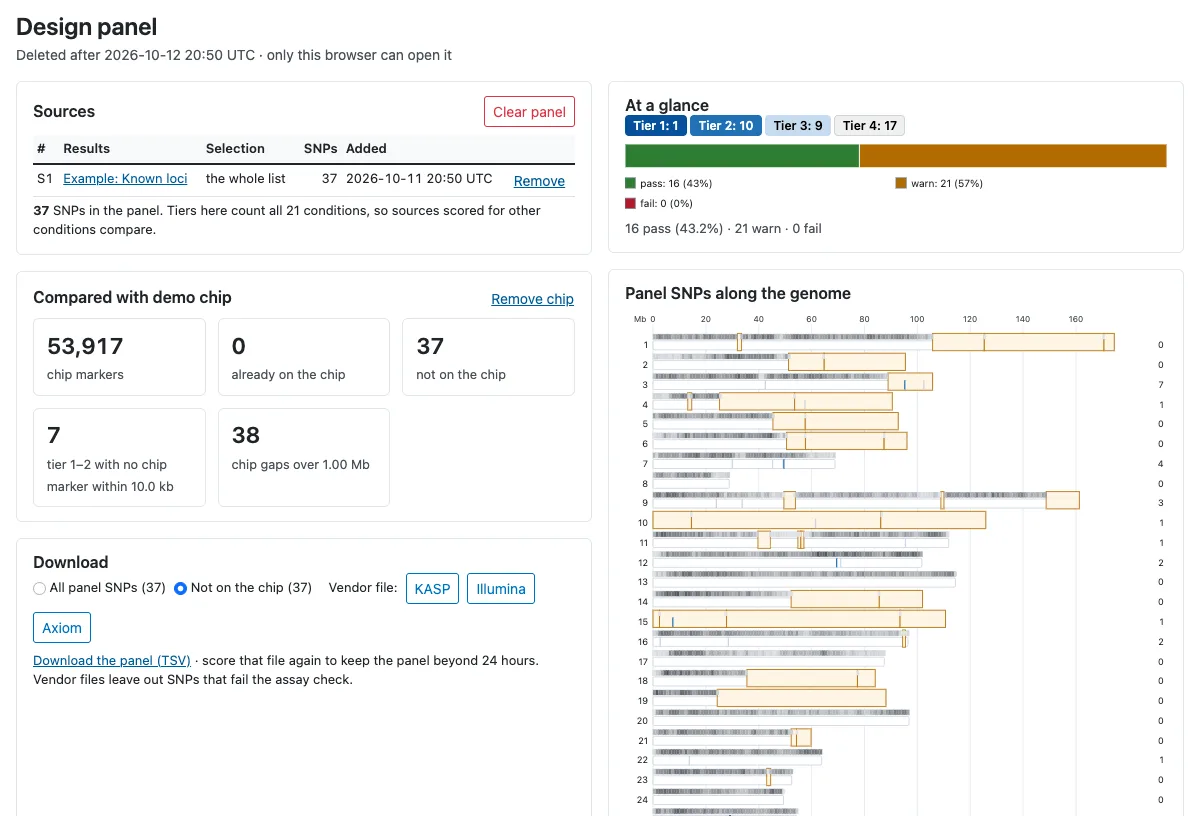
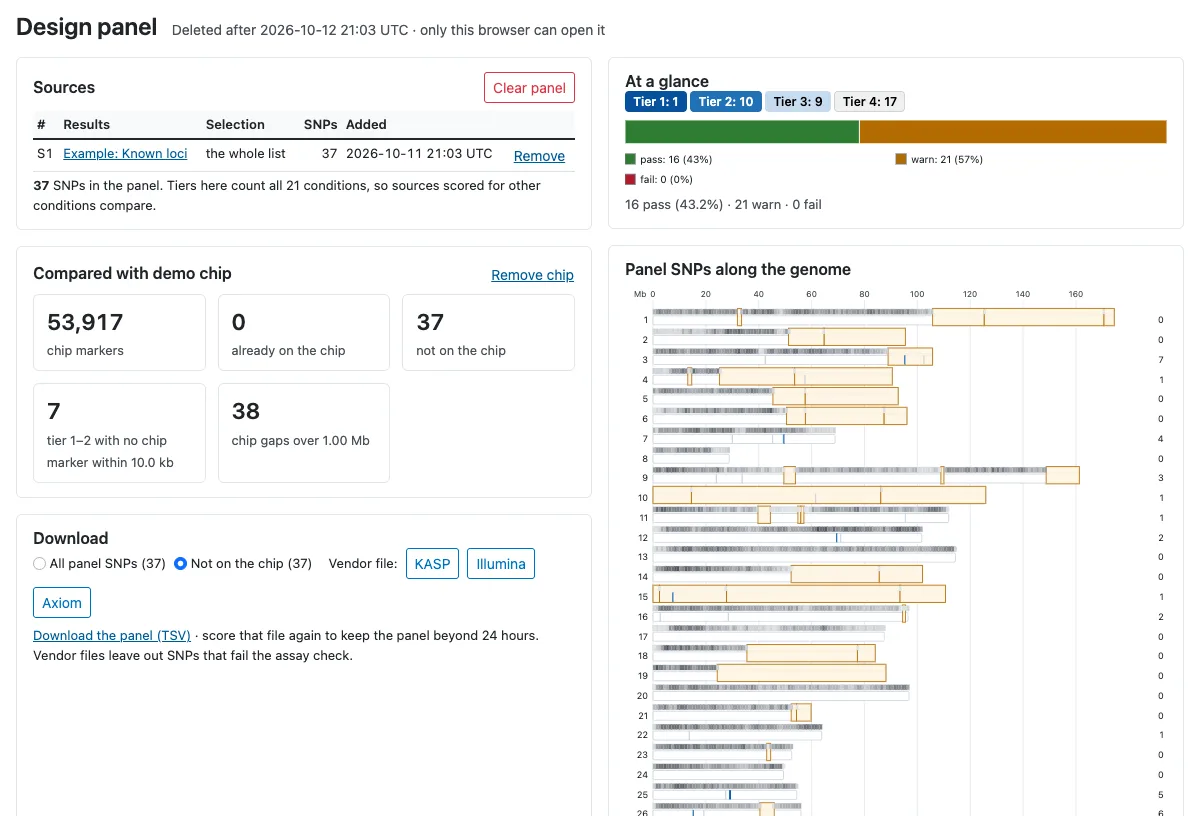
Results pages: no breadcrumb; the page meta (Deleted after ...) beside the title

diff --git a/snpportal/snpportal/static/snpportal/portal.css b/snpportal/snpportal/static/snpportal/portal.css
@@ -41,9 +41,10 @@
 .sp-main { padding: 1rem 0 2.5rem; min-height: 50vh; }
 .sp-crumbs { display: flex; flex-wrap: wrap; gap: .35rem; list-style: none; padding: 0; margin: 0 0 .25rem; font-size: .8rem; }
 .sp-crumbs li + li::before { content: "/"; color: var(--sp-grey-500); margin-right: .35rem; }
-.sp-page-header { display: flex; flex-wrap: wrap; align-items: flex-end; gap: .5rem 1rem; margin-bottom: 1rem; }
+.sp-page-header { display: flex; flex-wrap: wrap; align-items: center; gap: .5rem 1rem; margin-bottom: 1rem; }
+.sp-page-header > div:first-child { display: flex; flex-wrap: wrap; align-items: baseline; gap: .1rem .9rem; }  /* the meta beside the title */
 .sp-page-header h1 { font-size: 1.5rem; font-weight: 600; margin: 0; }
-.sp-meta { color: var(--sp-grey-700); font-size: .875rem; margin: .2rem 0 0; }
+.sp-meta { color: var(--sp-grey-700); font-size: .875rem; margin: 0; }
 .sp-actions { margin-left: auto; display: flex; flex-wrap: wrap; gap: .5rem; align-items: center; }
 .sp-actions form { margin: 0; }
 .sp-lead { font-size: 1.05rem; color: var(--sp-grey-700); max-width: 52rem; }

diff --git a/snpportal/snpportal/static/snpportal/tour/tour.css b/snpportal/snpportal/static/snpportal/tour/tour.css
@@ -25,10 +25,10 @@
 #tour-locus-3 { left: 86.47%; top: 68.20%; width: 8.65%; height: 5.26%; }
 #tour-locus-4 { left: 0.63%; top: 92.29%; width: 94.97%; height: 6.31%; }
 #tour-panel img { aspect-ratio: 1200 / 816; }
-#tour-panel-1 { left: 2.42%; top: 16.05%; width: 45.83%; height: 8.52%; }
-#tour-panel-2 { left: 2.42%; top: 38.48%; width: 45.83%; height: 24.15%; }
-#tour-panel-3 { left: 2.42%; top: 69.65%; width: 45.83%; height: 9.56%; }
-#tour-panel-4 { left: 50.33%; top: 9.43%; width: 48.67%; height: 22.08%; }
+#tour-panel-1 { left: 2.42%; top: 13.09%; width: 45.83%; height: 8.52%; }
+#tour-panel-2 { left: 2.42%; top: 35.52%; width: 45.83%; height: 24.15%; }
+#tour-panel-3 { left: 2.42%; top: 66.68%; width: 45.83%; height: 9.56%; }
+#tour-panel-4 { left: 50.33%; top: 6.47%; width: 48.67%; height: 22.08%; }
 #tour-gwas img { aspect-ratio: 1200 / 682; }
 #tour-gwas-1 { left: 72.26%; top: 30.68%; width: 2.07%; height: 3.65%; }
 #tour-gwas-2 { left: 2.07%; top: 81.06%; width: 24.59%; height: 17.81%; }

diff --git a/snpportal/snpportal/association.py b/snpportal/snpportal/association.py
@@ -559,7 +559,7 @@ def association(request, key):
         return render(request, "snpportal/expired.html", {"nav": "score", "title": "Results expired or deleted"}, status=404)
     ctx = {"nav": "score", "job": job, "key": key, "synthetic": bool(job.get("synthetic_input") or job.get("synthetic_layers")),
            "title": " · ".join(x for x in [job.get("label") or "Results", f"{job['n_rows']:,} SNPs" if job.get("n_rows") is not None else None] if x),
-           "crumbs": [("Score SNPs", reverse("snpportal:upload")), ("Results", None)], "meta": f"Deleted after {jobs.utc(jobs.expires(key))}"}
+           "meta": f"Deleted after {jobs.utc(jobs.expires(key))}"}
     if job["state"] == "done":
         gwas_job(key)
         a = analyse(request, key)

diff --git a/snpportal/snpportal/views.py b/snpportal/snpportal/views.py
@@ -251,7 +251,6 @@ def results(request, key):
     context = {"nav": "score", "job": job, "key": key, "tab": tab, "gwas": gwas,
                "title": " · ".join(x for x in [label + (" (synthetic data)" if synthetic and "synthetic" not in label.lower() else ""),
                                                f"{job['n_rows']:,} SNPs" if job.get("n_rows") is not None else None] if x),
-               "crumbs": [("Score SNPs", reverse("snpportal:upload")), ("Results", None)],
                "meta": f"Deleted after {jobs.utc(jobs.expires(key))}",
                "synthetic": synthetic}
     if job["state"] == "done":
